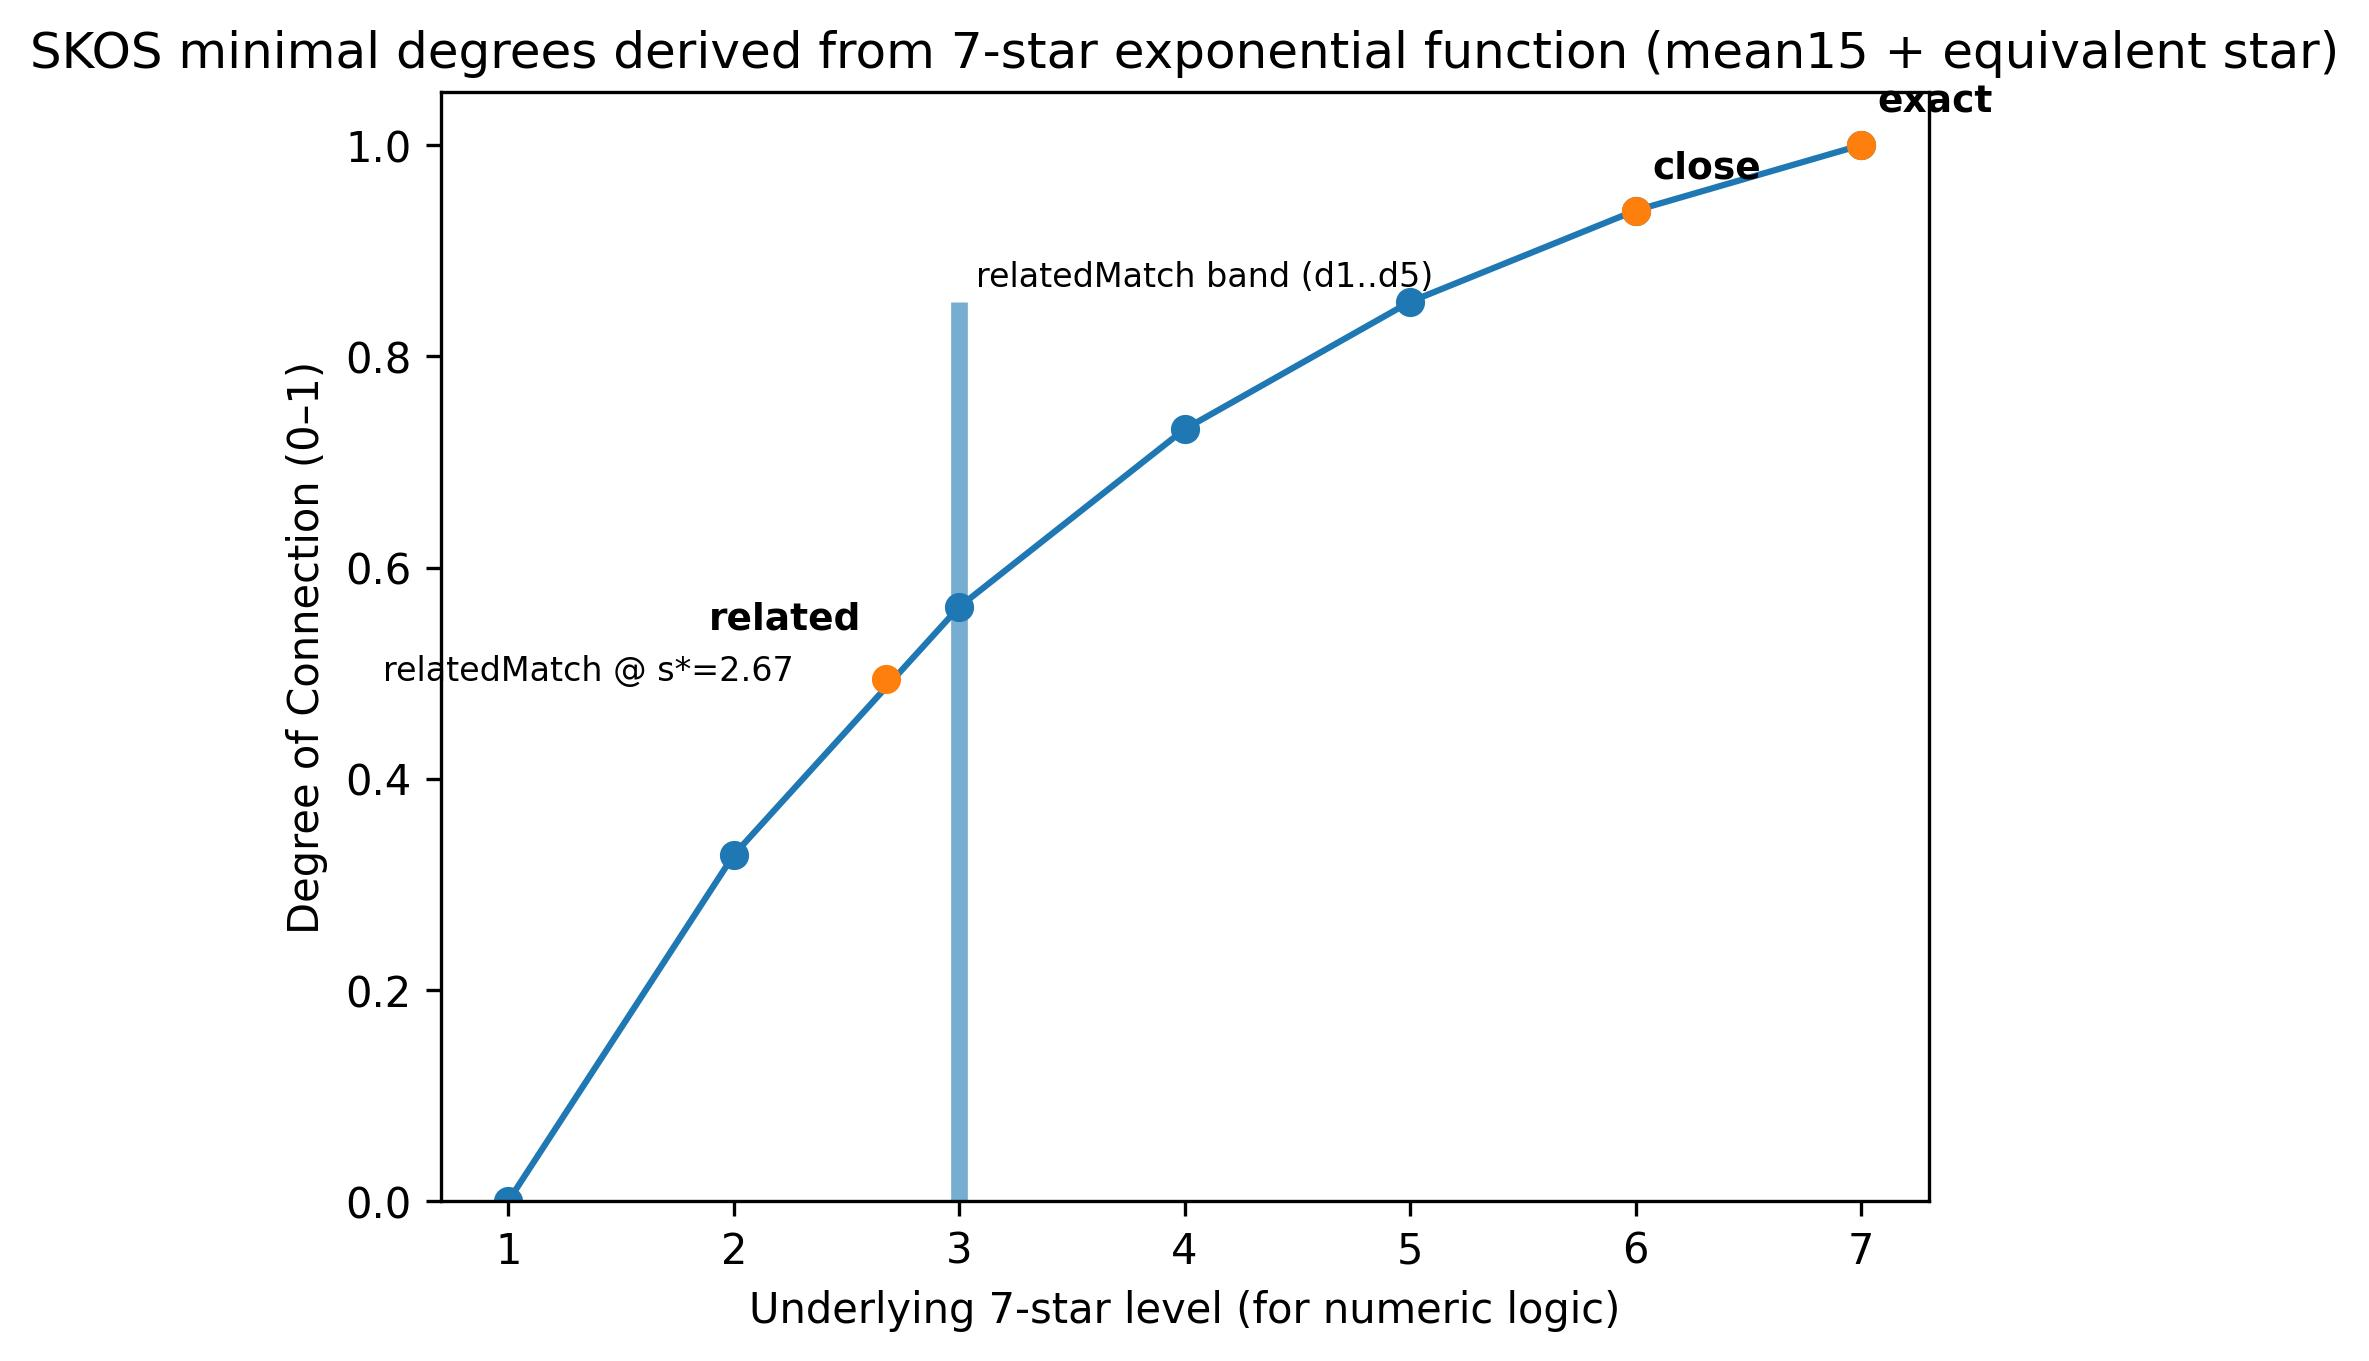
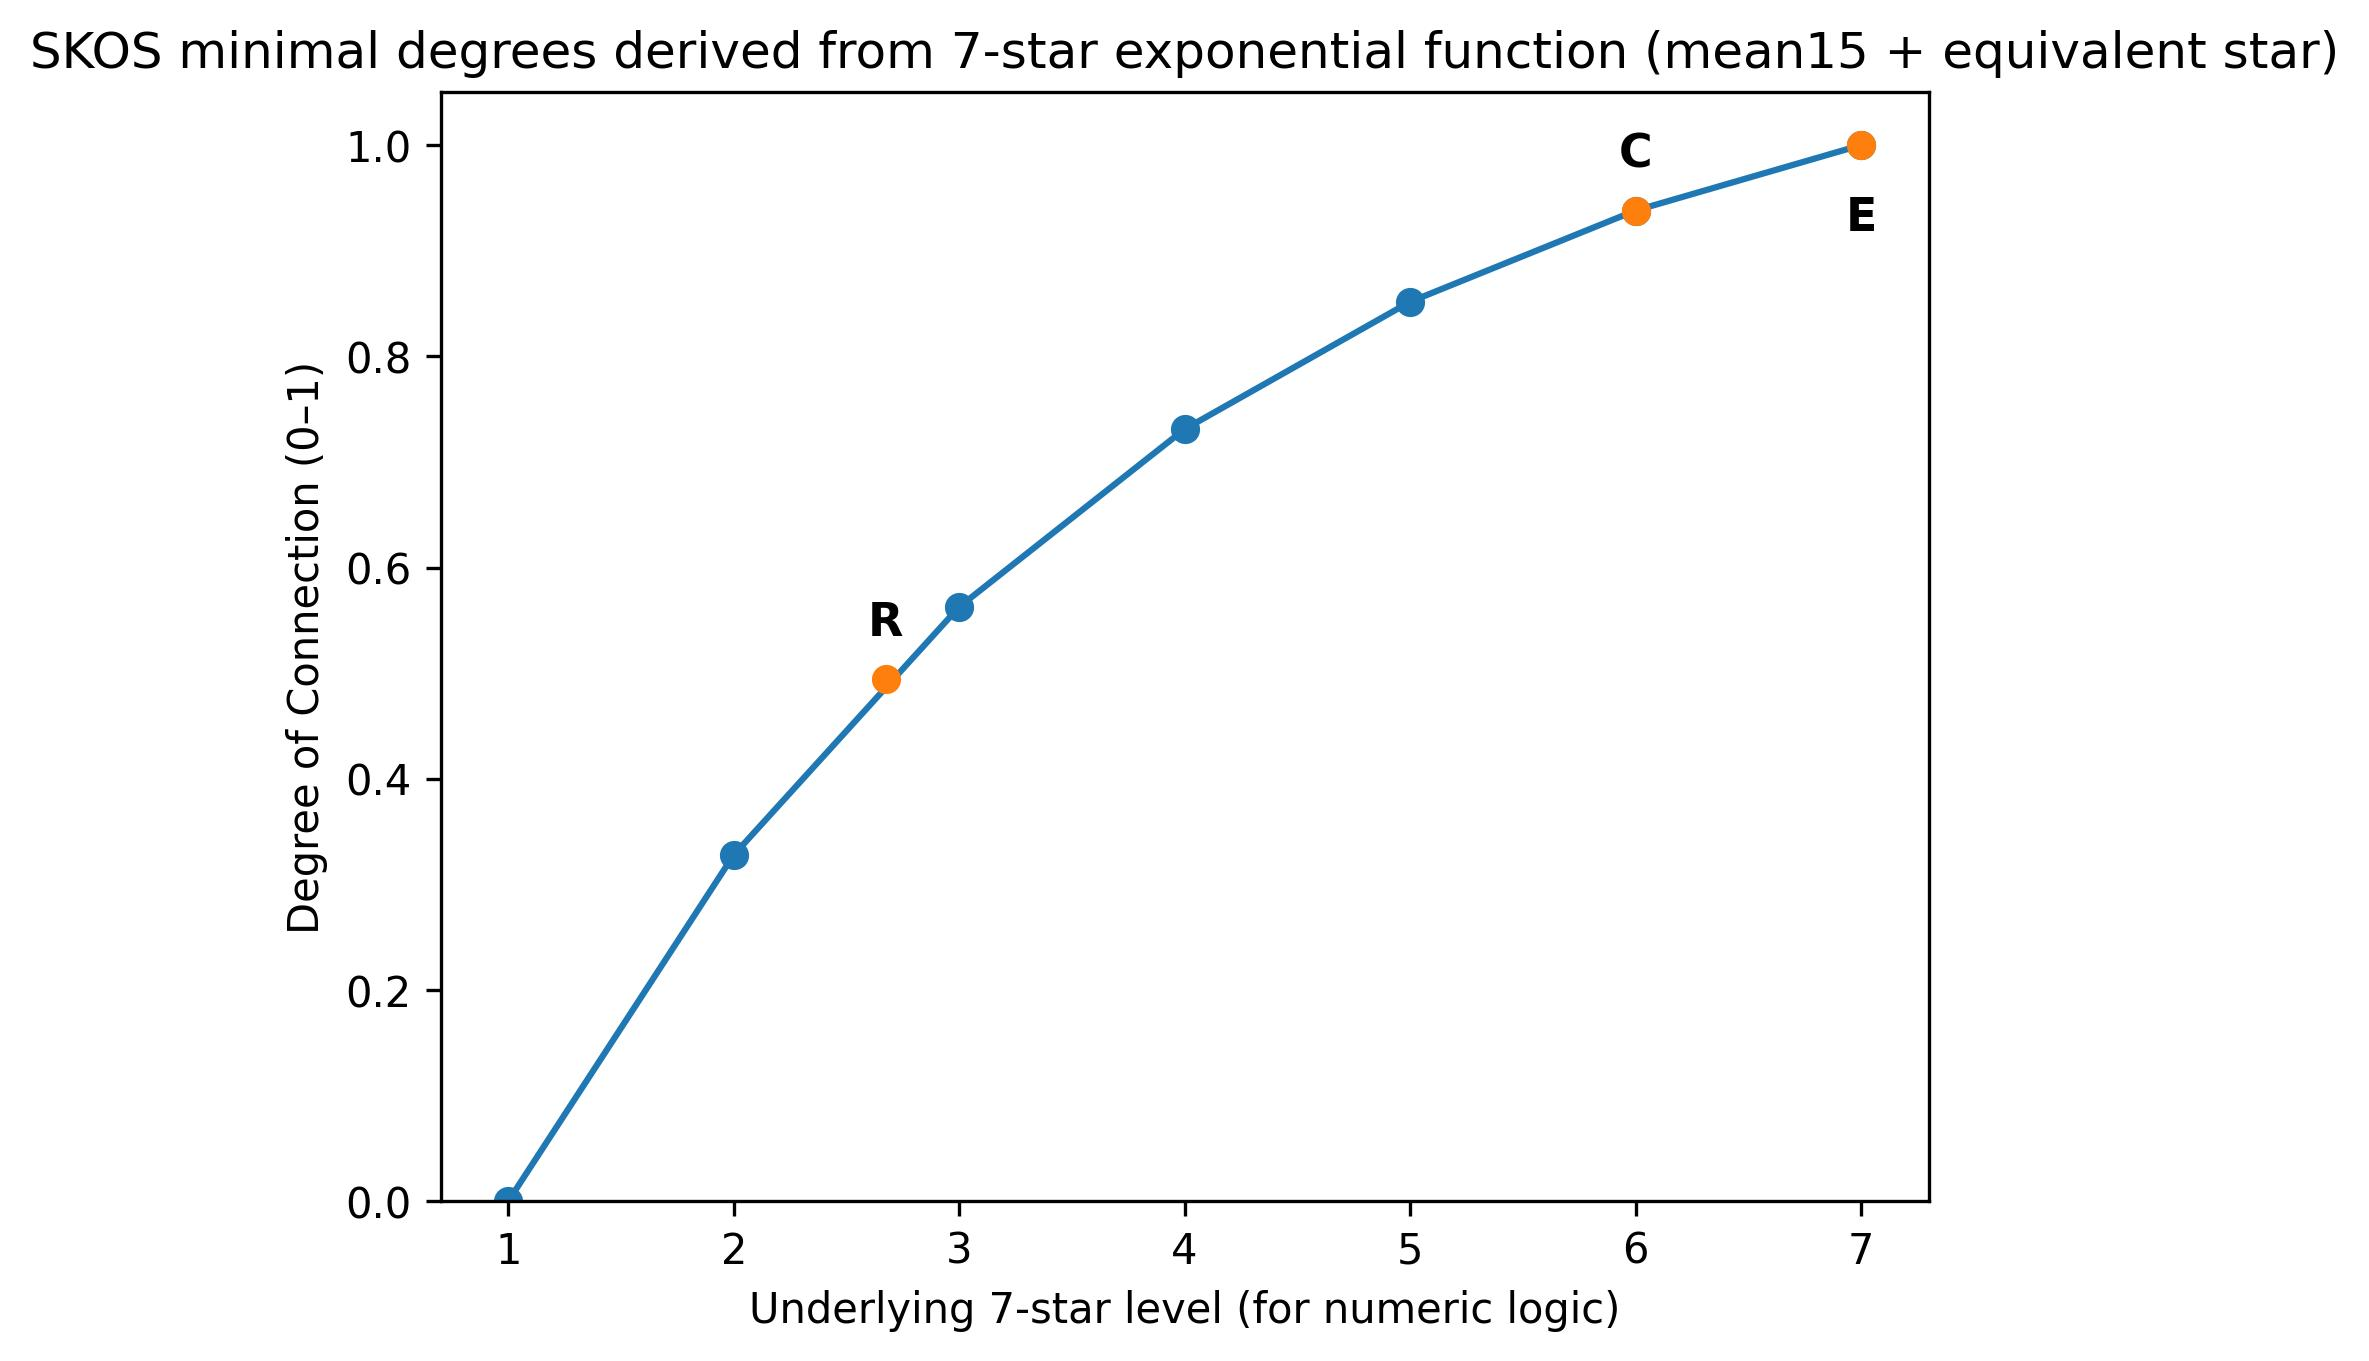
fix skos plot

diff --git a/skos/skos.py b/skos/skos.py
@@ -198,9 +198,9 @@ def plot_degrees(df: pd.DataFrame, outdir: Path) -> Path:
     curve = [degree_of_connection(s, k) for s in stars]
 
     # Band for relatedMatch (range of stars 1..5)
-    rel_vals = [degree_of_connection(s, k) for s in range(1, 6)]
-    rel_min = min(rel_vals)
-    rel_max = max(rel_vals)
+    # rel_vals = [degree_of_connection(s, k) for s in range(1, 6)]
+    # rel_min = min(rel_vals)
+    # rel_max = max(rel_vals)
 
     # y values from df
     y_related = float(
@@ -220,6 +220,41 @@ def plot_degrees(df: pd.DataFrame, outdir: Path) -> Path:
     plt.plot(stars, curve, marker="o")
     plt.plot(points_x, points_y, marker="o", linestyle="")
 
+    # --- Minimal labels on the orange points only (R / C / E) ---
+
+    plt.annotate(
+        "R",
+        xy=(x_related, y_related),
+        xytext=(0, 8),
+        textcoords="offset points",
+        ha="center",
+        va="bottom",
+        fontsize=11,
+        fontweight="bold",
+    )
+
+    plt.annotate(
+        "C",
+        xy=(6.0, y_close),
+        xytext=(0, 8),
+        textcoords="offset points",
+        ha="center",
+        va="bottom",
+        fontsize=11,
+        fontweight="bold",
+    )
+
+    plt.annotate(
+        "E",
+        xy=(7.0, y_exact),
+        xytext=(0, -12),
+        textcoords="offset points",
+        ha="center",
+        va="top",
+        fontsize=11,
+        fontweight="bold",
+    )
+
     plt.xticks(stars)
     plt.ylim(0, 1.05)
     plt.xlabel("Underlying 7-star level (for numeric logic)")
@@ -229,61 +264,11 @@ def plot_degrees(df: pd.DataFrame, outdir: Path) -> Path:
     )
 
     # Draw the relatedMatch band as a vertical anchor at x=3
-    plt.vlines(3, rel_min, rel_max, linewidth=4, alpha=0.6)
-    plt.annotate(
-        "relatedMatch band (d1..d5)",
-        xy=(3, rel_max),
-        xytext=(4, 2),
-        textcoords="offset points",
-        ha="left",
-        va="bottom",
-        fontsize=8,
-    )
+    # plt.vlines(3, rel_min, rel_max, linewidth=4, alpha=0.6)
 
     # Label for the relatedMatch point (moved further left + slightly down)
-    plt.annotate(
-        f"relatedMatch @ s*={x_related:.2f}",
-        xy=(x_related, y_related),
-        xytext=(-22, -2),
-        textcoords="offset points",
-        ha="right",
-        va="bottom",
-        fontsize=8,
-    )
 
     # --- Labels for the orange points (related / close / exact) ---
-    plt.annotate(
-        "related",
-        xy=(x_related, y_related),
-        xytext=(-6, 10),
-        textcoords="offset points",
-        ha="right",
-        va="bottom",
-        fontsize=9,
-        fontweight="bold",
-    )
-
-    plt.annotate(
-        "close",
-        xy=(6.0, y_close),
-        xytext=(4, 6),
-        textcoords="offset points",
-        ha="left",
-        va="bottom",
-        fontsize=9,
-        fontweight="bold",
-    )
-
-    plt.annotate(
-        "exact",
-        xy=(7.0, y_exact),
-        xytext=(4, 6),
-        textcoords="offset points",
-        ha="left",
-        va="bottom",
-        fontsize=9,
-        fontweight="bold",
-    )
 
     out_file = outdir / OUT_PLOT
     plt.savefig(out_file, dpi=300, bbox_inches="tight")
